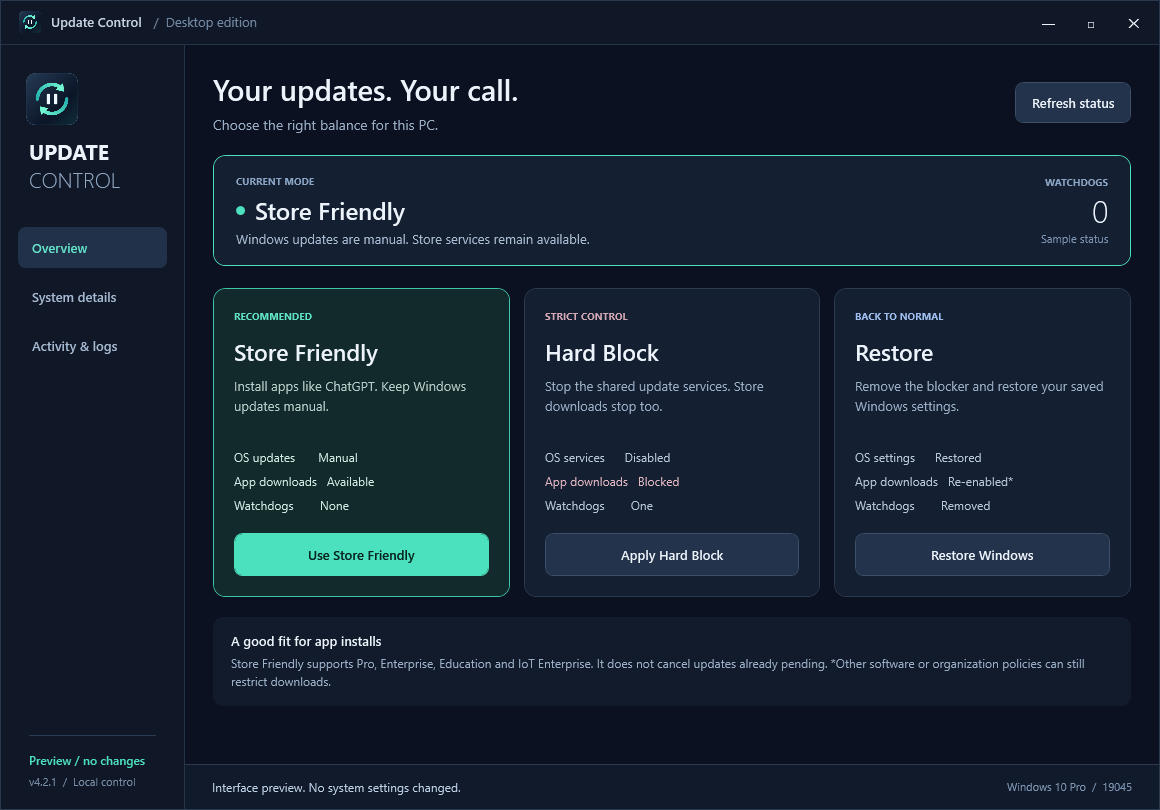
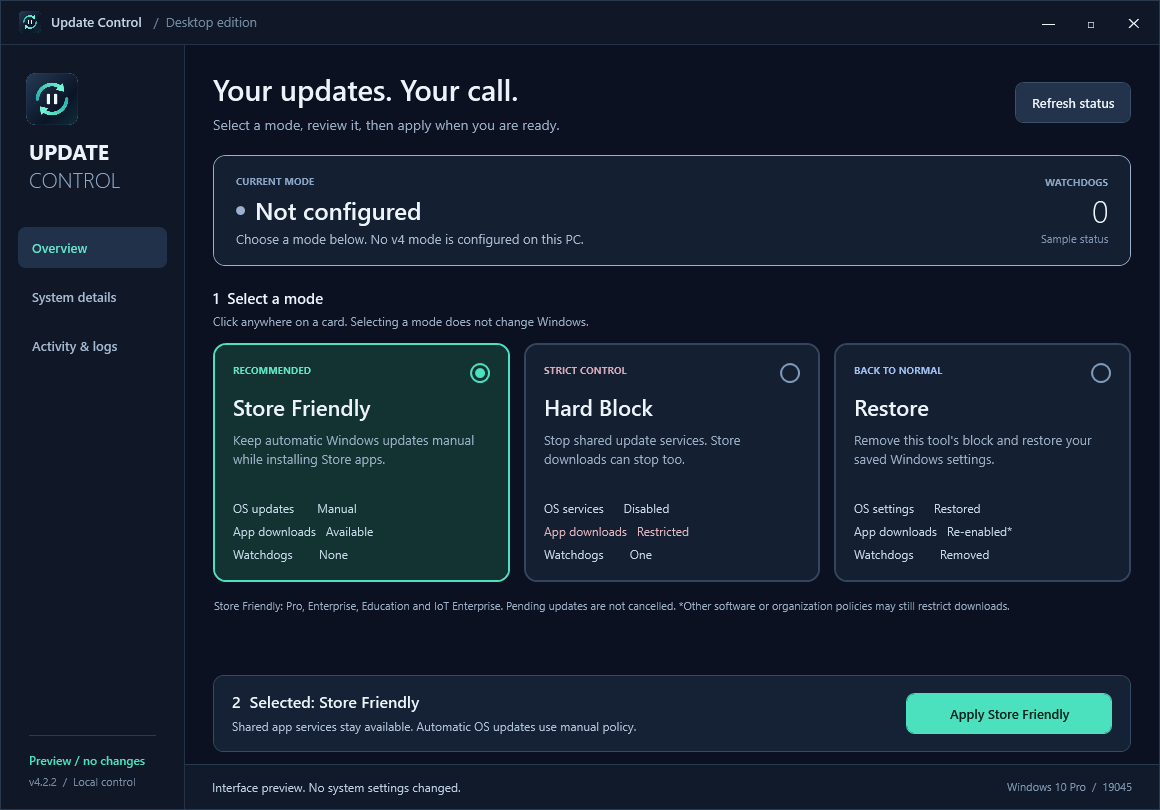
Make mode cards selectable with a separate visible Apply action (#3)

Changed region(s): [[0.1862, 0.3395, 0.9621, 0.9259], [0.2172, 0.2469, 0.4966, 0.3086], [0.1862, 0.1543, 0.4034, 0.1852]]

diff --git a/UpdateControl.xaml b/UpdateControl.xaml
@@ -31,6 +31,25 @@
       <Setter Property="BorderBrush" Value="Transparent"/><Setter Property="Margin" Value="0,3"/><Setter Property="Padding" Value="14,12"/>
     </Style>
     <Style x:Key="Card" TargetType="Border"><Setter Property="Background" Value="#141F31"/><Setter Property="BorderBrush" Value="#2B3B51"/><Setter Property="BorderThickness" Value="1"/><Setter Property="CornerRadius" Value="12"/><Setter Property="Padding" Value="21"/></Style>
+    <Style x:Key="ModeChoice" TargetType="RadioButton">
+      <Setter Property="Background" Value="#141F31"/><Setter Property="BorderBrush" Value="#34465F"/>
+      <Setter Property="Foreground" Value="#EDF3FA"/><Setter Property="Cursor" Value="Hand"/>
+      <Setter Property="HorizontalContentAlignment" Value="Stretch"/><Setter Property="VerticalContentAlignment" Value="Stretch"/>
+      <Setter Property="Template"><Setter.Value><ControlTemplate TargetType="RadioButton">
+        <Border x:Name="ChoiceSurface" Background="{TemplateBinding Background}" BorderBrush="{TemplateBinding BorderBrush}" BorderThickness="2" CornerRadius="12" Padding="18">
+          <Grid>
+            <ContentPresenter HorizontalAlignment="Stretch" VerticalAlignment="Stretch"/>
+            <Border x:Name="ChoiceRing" Width="20" Height="20" CornerRadius="10" BorderBrush="#7F99B8" BorderThickness="2" HorizontalAlignment="Right" VerticalAlignment="Top"><Ellipse x:Name="ChoiceDot" Width="10" Height="10" Fill="#4CE1BE" Visibility="Collapsed"/></Border>
+          </Grid>
+        </Border>
+        <ControlTemplate.Triggers>
+          <Trigger Property="IsMouseOver" Value="True"><Setter TargetName="ChoiceSurface" Property="Background" Value="#1C2B42"/><Setter TargetName="ChoiceSurface" Property="BorderBrush" Value="#92B8DD"/></Trigger>
+          <Trigger Property="IsChecked" Value="True"><Setter TargetName="ChoiceSurface" Property="Background" Value="#123331"/><Setter TargetName="ChoiceSurface" Property="BorderBrush" Value="#4CE1BE"/><Setter TargetName="ChoiceRing" Property="BorderBrush" Value="#4CE1BE"/><Setter TargetName="ChoiceDot" Property="Visibility" Value="Visible"/></Trigger>
+          <Trigger Property="IsKeyboardFocused" Value="True"><Setter TargetName="ChoiceSurface" Property="BorderBrush" Value="White"/></Trigger>
+          <Trigger Property="IsEnabled" Value="False"><Setter TargetName="ChoiceSurface" Property="Opacity" Value="0.45"/><Setter Property="Cursor" Value="Arrow"/></Trigger>
+        </ControlTemplate.Triggers>
+      </ControlTemplate></Setter.Value></Setter>
+    </Style>
     <Style x:Key="CaptionButton" TargetType="Button" BasedOn="{StaticResource Button}">
       <Setter Property="Background" Value="Transparent"/><Setter Property="BorderBrush" Value="Transparent"/><Setter Property="Width" Value="42"/><Setter Property="Padding" Value="0"/>
       <Setter Property="shell:WindowChrome.IsHitTestVisibleInChrome" Value="True"/>
@@ -50,6 +69,7 @@
   </Window.Resources>
   <Border x:Name="RenderRoot" BorderBrush="#2B394E" BorderThickness="1" Background="#0B1120">
     <Grid>
+      <Grid x:Name="AppContent">
       <Grid.RowDefinitions><RowDefinition Height="44"/><RowDefinition Height="*"/></Grid.RowDefinitions>
       <Border Grid.Row="0" Background="#101827" BorderBrush="#253349" BorderThickness="0,0,0,1">
         <Grid Margin="18,0,5,0"><StackPanel Orientation="Horizontal" VerticalAlignment="Center"><Image x:Name="TitleIcon" Width="22" Height="22" Margin="0,0,10,0"/><TextBlock Text="Update Control" Foreground="#C5D4E5" FontWeight="SemiBold" VerticalAlignment="Center"/><TextBlock Text=" /  Desktop edition" Foreground="#748BA6" Margin="8,0,0,0" VerticalAlignment="Center"/></StackPanel>
@@ -69,11 +89,11 @@
             <StackPanel DockPanel.Dock="Bottom">
               <Border Height="1" Background="#293A51" Margin="12,0,12,16"/>
               <TextBlock x:Name="AccessText" Text="Checking access" Foreground="#4CE1BE" FontWeight="SemiBold" FontSize="12" Margin="12,0,0,6"/>
-              <TextBlock Text="v4.2.1  /  Local control" Foreground="#788FA9" FontSize="11" Margin="12,0,0,0"/>
+              <TextBlock Text="v4.2.2  /  Local control" Foreground="#788FA9" FontSize="11" Margin="12,0,0,0"/>
             </StackPanel>
           </DockPanel>
         </Border>
-        <Grid Grid.Column="1"><Grid.RowDefinitions><RowDefinition Height="*"/><RowDefinition Height="Auto"/></Grid.RowDefinitions>
+        <Grid Grid.Column="1"><Grid.RowDefinitions><RowDefinition Height="*"/><RowDefinition Height="Auto"/><RowDefinition Height="Auto"/></Grid.RowDefinitions>
           <ScrollViewer x:Name="MainScroll" Padding="28,25,28,20">
             <StackPanel>
               <Grid Margin="0,0,0,21"><Grid.ColumnDefinitions><ColumnDefinition Width="*"/><ColumnDefinition Width="Auto"/></Grid.ColumnDefinitions>
@@ -88,36 +108,35 @@
               </Border>
               <Border x:Name="NoticePanel" CornerRadius="8" Background="#33291A" BorderBrush="#8D6931" BorderThickness="1" Padding="15,12" Margin="0,0,0,18" Visibility="Collapsed"><TextBlock x:Name="NoticeText" Foreground="#F3D89F"/></Border>
               <StackPanel x:Name="OverviewPage">
-                <Grid Margin="0,0,0,20"><Grid.ColumnDefinitions><ColumnDefinition Width="*"/><ColumnDefinition Width="14"/><ColumnDefinition Width="*"/><ColumnDefinition Width="14"/><ColumnDefinition Width="*"/></Grid.ColumnDefinitions>
-                  <Border Grid.Column="0" Style="{StaticResource Card}" BorderBrush="#3DC6A8" Background="#122A2B" Padding="20">
-                    <Grid><Grid.RowDefinitions><RowDefinition Height="Auto"/><RowDefinition Height="Auto"/><RowDefinition Height="Auto"/><RowDefinition Height="*"/><RowDefinition Height="Auto"/></Grid.RowDefinitions>
-                      <TextBlock Text="RECOMMENDED" Foreground="#62E5C6" FontSize="10" FontWeight="Bold"/>
-                      <TextBlock Grid.Row="1" Text="Store Friendly" FontSize="23" FontWeight="SemiBold" Margin="0,14,0,10"/>
-                      <TextBlock Grid.Row="2" Text="Install apps like ChatGPT. Keep Windows updates manual." Foreground="#B6CECA" MinHeight="57" LineHeight="20"/>
-                      <StackPanel Grid.Row="3" Margin="0,15,0,20"><TextBlock Text="OS updates       Manual" Foreground="#CFEAE3" FontSize="12" Margin="0,0,0,8"/><TextBlock Text="App downloads   Available" Foreground="#CFEAE3" FontSize="12" Margin="0,0,0,8"/><TextBlock Text="Watchdogs        None" Foreground="#CFEAE3" FontSize="12"/></StackPanel>
-                      <Button x:Name="StoreButton" Grid.Row="4" Content="Use Store Friendly" Style="{StaticResource Button}" Background="#4CE1BE" Foreground="#08251F" BorderBrush="#4CE1BE" Padding="10,12"/>
-                    </Grid>
-                  </Border>
-                  <Border Grid.Column="2" Style="{StaticResource Card}" Padding="20">
-                    <Grid><Grid.RowDefinitions><RowDefinition Height="Auto"/><RowDefinition Height="Auto"/><RowDefinition Height="Auto"/><RowDefinition Height="*"/><RowDefinition Height="Auto"/></Grid.RowDefinitions>
-                      <TextBlock Text="STRICT CONTROL" Foreground="#D6AAB7" FontSize="10" FontWeight="Bold"/>
-                      <TextBlock Grid.Row="1" Text="Hard Block" FontSize="23" FontWeight="SemiBold" Margin="0,14,0,10"/>
-                      <TextBlock Grid.Row="2" Text="Stop the shared update services. Store downloads stop too." Foreground="{StaticResource Muted}" MinHeight="57" LineHeight="20"/>
-                      <StackPanel Grid.Row="3" Margin="0,15,0,20"><TextBlock Text="OS services      Disabled" Foreground="#B8C8DB" FontSize="12" Margin="0,0,0,8"/><TextBlock Text="App downloads   Blocked" Foreground="#E0B6C0" FontSize="12" Margin="0,0,0,8"/><TextBlock Text="Watchdogs        One" Foreground="#B8C8DB" FontSize="12"/></StackPanel>
-                      <Button x:Name="HardButton" Grid.Row="4" Content="Apply Hard Block" Style="{StaticResource Button}" Padding="10,12"/>
-                    </Grid>
-                  </Border>
-                  <Border Grid.Column="4" Style="{StaticResource Card}" Padding="20">
-                    <Grid><Grid.RowDefinitions><RowDefinition Height="Auto"/><RowDefinition Height="Auto"/><RowDefinition Height="Auto"/><RowDefinition Height="*"/><RowDefinition Height="Auto"/></Grid.RowDefinitions>
-                      <TextBlock Text="BACK TO NORMAL" Foreground="#9EBFF0" FontSize="10" FontWeight="Bold"/>
-                      <TextBlock Grid.Row="1" Text="Restore" FontSize="23" FontWeight="SemiBold" Margin="0,14,0,10"/>
-                      <TextBlock Grid.Row="2" Text="Remove the blocker and restore your saved Windows settings." Foreground="{StaticResource Muted}" MinHeight="57" LineHeight="20"/>
-                      <StackPanel Grid.Row="3" Margin="0,15,0,20"><TextBlock Text="OS settings      Restored" Foreground="#B8C8DB" FontSize="12" Margin="0,0,0,8"/><TextBlock Text="App downloads   Re-enabled*" Foreground="#B8C8DB" FontSize="12" Margin="0,0,0,8"/><TextBlock Text="Watchdogs        Removed" Foreground="#B8C8DB" FontSize="12"/></StackPanel>
-                      <Button x:Name="RestoreButton" Grid.Row="4" Content="Restore Windows" Style="{StaticResource Button}" Padding="10,12"/>
-                    </Grid>
-                  </Border>
+                <TextBlock Text="1  Select a mode" FontSize="15" FontWeight="SemiBold" Margin="0,0,0,5"/>
+                <TextBlock Text="Click anywhere on a card. Selecting a mode does not change Windows." Foreground="{StaticResource Muted}" FontSize="12" Margin="0,0,0,14"/>
+                <Grid Margin="0,0,0,16" KeyboardNavigation.DirectionalNavigation="Contained"><Grid.ColumnDefinitions><ColumnDefinition Width="*"/><ColumnDefinition Width="14"/><ColumnDefinition Width="*"/><ColumnDefinition Width="14"/><ColumnDefinition Width="*"/></Grid.ColumnDefinitions>
+                  <RadioButton x:Name="StoreChoice" Tag="Store" GroupName="UpdateMode" Grid.Column="0" Style="{StaticResource ModeChoice}" AutomationProperties.Name="Store Friendly" AutomationProperties.HelpText="Select this mode. Use Apply Store Friendly to change Windows." ToolTip="Select Store Friendly; Windows stays unchanged until you apply.">
+                    <StackPanel>
+                      <TextBlock Text="RECOMMENDED" Foreground="#62E5C6" FontSize="10" FontWeight="Bold" Margin="0,0,30,0"/>
+                      <TextBlock Text="Store Friendly" FontSize="22" FontWeight="SemiBold" Margin="0,16,0,10"/>
+                      <TextBlock Text="Keep automatic Windows updates manual while installing Store apps." Foreground="{StaticResource Muted}" MinHeight="55" LineHeight="19"/>
+                      <StackPanel Margin="0,14,0,0"><TextBlock Text="OS updates       Manual" Foreground="#C6D8E8" FontSize="12" Margin="0,0,0,7"/><TextBlock Text="App downloads   Available" Foreground="#C6D8E8" FontSize="12" Margin="0,0,0,7"/><TextBlock Text="Watchdogs        None" Foreground="#C6D8E8" FontSize="12"/></StackPanel>
+                    </StackPanel>
+                  </RadioButton>
+                  <RadioButton x:Name="HardChoice" Tag="Hard" GroupName="UpdateMode" Grid.Column="2" Style="{StaticResource ModeChoice}" AutomationProperties.Name="Hard Block" AutomationProperties.HelpText="Select this mode. Review and confirm Hard Block separately." ToolTip="Select Hard Block to review it. Nothing changes until you apply and confirm.">
+                    <StackPanel>
+                      <TextBlock Text="STRICT CONTROL" Foreground="#D6AAB7" FontSize="10" FontWeight="Bold" Margin="0,0,30,0"/>
+                      <TextBlock Text="Hard Block" FontSize="22" FontWeight="SemiBold" Margin="0,16,0,10"/>
+                      <TextBlock Text="Stop shared update services. Store downloads can stop too." Foreground="{StaticResource Muted}" MinHeight="55" LineHeight="19"/>
+                      <StackPanel Margin="0,14,0,0"><TextBlock Text="OS services      Disabled" Foreground="#C6D8E8" FontSize="12" Margin="0,0,0,7"/><TextBlock Text="App downloads   Restricted" Foreground="#E0B6C0" FontSize="12" Margin="0,0,0,7"/><TextBlock Text="Watchdogs        One" Foreground="#C6D8E8" FontSize="12"/></StackPanel>
+                    </StackPanel>
+                  </RadioButton>
+                  <RadioButton x:Name="RestoreChoice" Tag="Restore" GroupName="UpdateMode" Grid.Column="4" Style="{StaticResource ModeChoice}" AutomationProperties.Name="Restore Windows" AutomationProperties.HelpText="Select restoration. Use Restore Windows to remove this tool's settings." ToolTip="Select Restore; your current settings stay in place until you apply.">
+                    <StackPanel>
+                      <TextBlock Text="BACK TO NORMAL" Foreground="#9EBFF0" FontSize="10" FontWeight="Bold" Margin="0,0,30,0"/>
+                      <TextBlock Text="Restore" FontSize="22" FontWeight="SemiBold" Margin="0,16,0,10"/>
+                      <TextBlock Text="Remove this tool's block and restore your saved Windows settings." Foreground="{StaticResource Muted}" MinHeight="55" LineHeight="19"/>
+                      <StackPanel Margin="0,14,0,0"><TextBlock Text="OS settings      Restored" Foreground="#C6D8E8" FontSize="12" Margin="0,0,0,7"/><TextBlock Text="App downloads   Re-enabled*" Foreground="#C6D8E8" FontSize="12" Margin="0,0,0,7"/><TextBlock Text="Watchdogs        Removed" Foreground="#C6D8E8" FontSize="12"/></StackPanel>
+                    </StackPanel>
+                  </RadioButton>
                 </Grid>
-                <Border Background="#121B2B" CornerRadius="10" Padding="18,15"><StackPanel><TextBlock Text="A good fit for app installs" FontWeight="SemiBold"/><TextBlock Text="Store Friendly supports Pro, Enterprise, Education and IoT Enterprise. It does not cancel updates already pending. *Other software or organization policies can still restrict downloads." Foreground="{StaticResource Muted}" Margin="0,6,0,0" FontSize="12" LineHeight="18"/></StackPanel></Border>
+                <TextBlock Text="Store Friendly: Pro, Enterprise, Education and IoT Enterprise. Pending updates are not cancelled. *Other software or organization policies may still restrict downloads." Foreground="{StaticResource Muted}" FontSize="11" LineHeight="17" Margin="1,0,1,0"/>
               </StackPanel>
               <StackPanel x:Name="DetailsPage" Visibility="Collapsed">
                 <Border Style="{StaticResource Card}" Margin="0,0,0,16"><StackPanel><TextBlock Text="Update &amp; app services" FontSize="18" FontWeight="SemiBold" Margin="0,0,0,6"/><TextBlock Text="A stopped Manual service can start when Windows needs it. Disabled means it cannot start." Foreground="{StaticResource Muted}" Margin="0,0,0,18" FontSize="12"/><DataGrid x:Name="ServicesGrid"><DataGrid.Columns><DataGridTextColumn Header="Service" Binding="{Binding Name}" Width="*" MinWidth="230"/><DataGridTextColumn Header="State" Binding="{Binding State}" Width="140"/><DataGridTextColumn Header="Startup" Binding="{Binding Startup}" Width="140"/></DataGrid.Columns></DataGrid></StackPanel></Border>
@@ -129,12 +148,19 @@
               <Border x:Name="ResultPanel" Style="{StaticResource Card}" Margin="0,18,0,0" Visibility="Collapsed"><StackPanel><TextBlock x:Name="ResultTitle" Text="" FontSize="18" FontWeight="SemiBold"/><TextBlock x:Name="ResultMessage" Text="" Foreground="#B4C7DD" Margin="0,7,0,0" LineHeight="20"/></StackPanel></Border>
             </StackPanel>
           </ScrollViewer>
-          <Border Grid.Row="1" Background="#101A2B" BorderBrush="#293A50" BorderThickness="0,1,0,0" Padding="27,14">
+                <Border x:Name="SelectionPanel" Grid.Row="1" Background="#152235" BorderBrush="#354C68" BorderThickness="1" CornerRadius="10" Padding="18,15" Margin="28,0,28,12">
+                  <Grid><Grid.ColumnDefinitions><ColumnDefinition Width="*"/><ColumnDefinition Width="Auto"/></Grid.ColumnDefinitions>
+                    <StackPanel><TextBlock x:Name="SelectionTitle" Text="2  Apply your selection" FontSize="16" FontWeight="SemiBold"/><TextBlock x:Name="SelectionHint" Text="Select a card above to continue." Foreground="#AEC2DA" FontSize="12" Margin="0,6,14,0" LineHeight="18"/></StackPanel>
+                    <Button x:Name="ApplyButton" Grid.Column="1" Content="Select a mode" Style="{StaticResource Button}" Background="#4CE1BE" Foreground="#08251F" BorderBrush="#4CE1BE" MinWidth="206" VerticalAlignment="Center" ToolTipService.ShowOnDisabled="True"/>
+                  </Grid>
+                </Border>
+          <Border Grid.Row="2" Background="#101A2B" BorderBrush="#293A50" BorderThickness="0,1,0,0" Padding="27,14">
             <StackPanel><Grid><Grid.ColumnDefinitions><ColumnDefinition Width="*"/><ColumnDefinition Width="Auto"/></Grid.ColumnDefinitions><TextBlock x:Name="OperationText" Text="Connecting to the local controller..." Foreground="#BED0E6" FontSize="12"/><TextBlock x:Name="SystemText" Grid.Column="1" Foreground="#7F98B5" FontSize="11" Margin="15,0,0,0"/></Grid><ProgressBar x:Name="ProgressBar" Height="3" Margin="0,10,0,0" Background="#263750" Foreground="#4CE1BE" BorderThickness="0" IsIndeterminate="True"/></StackPanel>
           </Border>
         </Grid>
       </Grid>
-      <Border x:Name="ConfirmOverlay" Grid.RowSpan="2" Background="#CC060B14" Visibility="Collapsed">
+      </Grid>
+      <Border x:Name="ConfirmOverlay" KeyboardNavigation.TabNavigation="Cycle" Background="#CC060B14" Visibility="Collapsed">
         <Border Style="{StaticResource Card}" Width="440" HorizontalAlignment="Center" VerticalAlignment="Center" Padding="30" BorderBrush="#8B5C6D"><StackPanel><TextBlock Text="Apply Hard Block?" FontSize="26" FontWeight="SemiBold"/><TextBlock Text="This stops Windows update services and prevents Microsoft Store downloads, including ChatGPT. Automatic OS security updates also stop." Margin="0,16,0,0" Foreground="#C3CDDC" LineHeight="22"/><TextBlock Text="You can switch back with Store Friendly or Restore." Margin="0,12,0,24" Foreground="#9BB2CA"/><Grid><Grid.ColumnDefinitions><ColumnDefinition Width="*"/><ColumnDefinition Width="12"/><ColumnDefinition Width="*"/></Grid.ColumnDefinitions><Button x:Name="CancelHardButton" Content="Keep current mode" Style="{StaticResource Button}" Padding="10,12"/><Button x:Name="ConfirmHardButton" Grid.Column="2" Content="Apply Hard Block" Style="{StaticResource Button}" Background="#944B63" BorderBrush="#BC708A" Padding="10,12"/></Grid></StackPanel></Border>
       </Border>
     </Grid>

diff --git a/launcher/Program.cs b/launcher/Program.cs
@@ -15,8 +15,8 @@ using System.Windows.Forms;
 [assembly: AssemblyCompany("Ajay Kareer")]
 [assembly: AssemblyProduct("Update Control Desktop")]
 [assembly: AssemblyCopyright("Copyright (c) Ajay Kareer. MIT licensed.")]
-[assembly: AssemblyVersion("4.2.1.0")]
-[assembly: AssemblyFileVersion("4.2.1.0")]
+[assembly: AssemblyVersion("4.2.2.0")]
+[assembly: AssemblyFileVersion("4.2.2.0")]
 
 internal static class Program
 {

diff --git a/README.md b/README.md
@@ -6,9 +6,9 @@
 
 A Windows desktop interface for controlling automatic OS updates, keeping Microsoft Store available, and removing this tool's blocker reliably.
 
-**[Download the single EXE](https://github.com/ajaykareer/Windows-Update-Manager/releases/download/v4.2.1/Update-Control.exe)** · **[Portable ZIP](https://github.com/ajaykareer/Windows-Update-Manager/releases/download/v4.2.1/Update-Control-Desktop-v4.2.1.zip)** · [Release notes](https://github.com/ajaykareer/Windows-Update-Manager/releases/tag/v4.2.1)
+**[Download the single EXE](https://github.com/ajaykareer/Windows-Update-Manager/releases/download/v4.2.2/Update-Control.exe)** · **[Portable ZIP](https://github.com/ajaykareer/Windows-Update-Manager/releases/download/v4.2.2/Update-Control-Desktop-v4.2.2.zip)** · [Release notes](https://github.com/ajaykareer/Windows-Update-Manager/releases/tag/v4.2.2)
 
-Version 4.2.1 is a preview release. See [validation and limitations](docs/VALIDATION.md) for what is tested.
+Version 4.2.2 is a preview release. See [validation and limitations](docs/VALIDATION.md) for what is tested.
 
 ![Update Control desktop overview](docs/screenshots/overview.png)
 
@@ -17,9 +17,11 @@ Version 4.2.1 is a preview release. See [validation and limitations](docs/VALIDA
 ## Start here
 
 1. Download **Update-Control.exe** and open it on the PC you want to manage. Accept the administrator prompt.
-2. If you used the old script, select **Restore Windows** first. Follow any restart message.
-3. Select **Use Store Friendly** to keep automatic Windows updates disabled by policy while allowing Store downloads, including apps such as ChatGPT.
-4. Select **Restore Windows** whenever you want to remove this tool's block.
+2. If you used the old script, click the **Restore** card, then **Restore Windows**. Follow any restart message.
+3. Click the **Store Friendly** card, then **Apply Store Friendly** to keep automatic Windows updates disabled by policy while allowing Store downloads, including apps such as ChatGPT.
+4. To remove the block later, select the **Restore** card and apply it.
+
+The entire card is clickable. Its outline and radio marker show your selection; Windows changes only after you press the separate action button. Hard Block adds a confirmation step. The **Current mode** panel shows the saved configuration, independently of the option you are considering.
 
 You download one EXE. It automatically extracts its embedded components into a protected version folder under `%ProgramFiles%\Kareer Update Control`. It uses Windows PowerShell 5.1 and .NET Framework already present on standard Windows 10/11 desktop installations. It does not require Python, Node, or a separate setup wizard.
 
@@ -55,7 +57,9 @@ Exact original-setting restoration applies to changes first made by version 4. T
 
 ## Interface
 
-Overview shows the selected mode, watchdog count and available actions. System details shows service and task status. Activity provides progress, logs, backups, and diagnostic reports. Hard Block has a confirmation dialog; failure and restart results are distinct. No restart or Windows Update scan is issued automatically.
+Overview separates the current mode from your pending selection. Click any part of a mode card, then use the action bar that stays visible at the bottom. Radio controls support keyboard and accessibility navigation. Read-only access, a running operation, missing status and an unsupported Store edition explain why Apply is unavailable. Selections survive automatic status refreshes.
+
+System details shows service and task status. Activity provides progress, logs, backups, and diagnostic reports. Hard Block has a confirmation dialog that prevents interaction with the underlying page until you confirm or cancel. Failure and restart results are distinct. No restart or Windows Update scan is issued automatically.
 
 | System details | Activity and recovery |
 | --- | --- |

diff --git a/docs/TROUBLESHOOTING.md b/docs/TROUBLESHOOTING.md
@@ -2,7 +2,7 @@
 
 ## Store says “Turn on Windows Update”
 
-Open Update Control, choose **Restore Windows**, and follow any restart message. Reopen the controller and choose **Use Store Friendly** on a supported edition. This keeps shared services available while setting automatic Windows updates to manual policy. Close and reopen Microsoft Store. If it retains an old error, run `wsreset.exe` from Win+R.
+Open Update Control, select the **Restore** card, click **Restore Windows**, and follow any restart message. Reopen the controller, select **Store Friendly**, then click **Apply Store Friendly** on a supported edition. This keeps shared services available while setting automatic Windows updates to manual policy. Close and reopen Microsoft Store. If it retains an old error, run `wsreset.exe` from Win+R.
 
 Do not keep Hard Block enabled while expecting Store downloads to work. Other causes, such as account, network, organization policy or Store damage, are outside this controller's repair scope.
 
@@ -11,6 +11,14 @@ Do not keep Hard Block enabled while expecting Store downloads to work. Other ca
 The new controller looks in every Task Scheduler folder for both `WU-Guardian*` and `POS-WU-Guardian*` families, but matches only the explicit names listed in the README. It disarms enforcement, then separately tries disable, stop and deletion. If deletion still fails, it reports **Needs attention** and includes a log path.
 
 Use **Activity → Open logs** and create a diagnostic report. Confirm you opened the controller with administrator access. Rerun Restore after resolving the reported error. Do not delete the data folder while a guardian is still active. Tasks with custom names are not automatically deleted.
+
+## Mode cards or Apply seem unresponsive
+
+In 4.2.2, click anywhere on a card to select it. The outline and radio marker change, and the bottom action button names the selected action. Selecting alone does not change the **Current mode** panel; only applying and successfully completing a change does that.
+
+Read the message beside Apply if it is disabled: no selection, read-only access, an operation in progress, unavailable status, or an unsupported Windows edition. During a status refresh you can still choose a card; applying waits for the refresh. During a settings change, the choices and action are disabled together. The button stays visible while the content scrolls.
+
+The older 4.2.1 layout used static cards with separate small buttons. Close that version and open the current EXE if you still see those individual card buttons. If an enabled action still does nothing, report its exact label and the Activity text.
 
 ## Restart required
 
@@ -34,7 +42,7 @@ For a WPF startup failure, check `%TEMP%\Update-Control-GUI-error.txt` and try t
 
 ## Remove the application
 
-1. Open it and select **Restore Windows**. Wait for success and follow any restart message.
+1. Open it, select the **Restore** card and click **Restore Windows**. Wait for success and follow any restart message.
 2. Verify that the watchdog count is zero.
 3. Close the application. You can then delete the downloaded EXE/ZIP and the application component folder under `%ProgramFiles%\Kareer Update Control`.
 4. Keep the ProgramData logs/backups until you have verified normal operation. Deleting the EXE alone does not disable an installed Hard Block watchdog.

diff --git a/docs/VALIDATION.md b/docs/VALIDATION.md
@@ -1,6 +1,6 @@
 # Validation and limits
 
-Version 4.2.1 is a preview. A successful build is not a guarantee that Windows servicing, every protected service, or Microsoft Store behaves identically on every machine.
+Version 4.2.2 is a preview. A successful build is not a guarantee that Windows servicing, every protected service, or Microsoft Store behaves identically on every machine.
 
 See [Windows validation runs](https://github.com/ajaykareer/Windows-Update-Manager/actions/workflows/windows.yml) for the result on each commit. The release packages should come from a successful run for the release commit.
 
@@ -9,7 +9,7 @@ See [Windows validation runs](https://github.com/ajaykareer/Windows-Update-Manag
 | Controller regression suite | Hard → Store → Restore, repeated restore, absent/original policy, immutable baseline, failure rollback, corrupt state, real file locks and atomic replacement | Actual Windows Update service permissions or OS policy enforcement |
 | Watchdog removal regression | Both legacy naming families; all task folders; independent disable/stop/delete attempts; CLI fallback; remaining tasks fail explicitly | Every third-party task or renamed/custom blocker |
 | Repair regression suite | Exact known policy/ACL cleanup, unrelated policy preservation, service fallback errors, backup and teardown ordering | Exact pre-script permissions that old releases never recorded |
-| WPF smoke test | Actual status worker, completion code/result delivery, mode routing, confirmation/cancel, navigation, read-only controls, error/restart presentation | A real privileged button click on a consumer PC |
+| WPF smoke test | Actual status worker, card heading/body/padding hit targets, unobstructed Apply target at standard/minimum sizes, accessibility selection/invocation, no changes on selection/cancel, action routing, modal isolation, disabled-state reasons and selection persistence | Physical pointer/keyboard input or a real privileged button click on the affected PC |
 | Interface previews | Real WPF rendering with sample status, including smaller window layouts | A screenshot of successful live blocking |
 | Windows API integration | Actual temporary services, protected state/engine ACLs, scheduled SYSTEM task, drift correction, startup-setting restoration and task deletion | Client Windows Update, Medic behavior, reboot persistence, MDM or Store app installation |
 | EXE/ZIP verification | Embedded SHA-256, exact source-to-package comparison, real elevated extraction and cached second launch in CI | Publisher signing, SmartScreen reputation or antivirus acceptance |

diff --git a/docs/BUILD.md b/docs/BUILD.md
@@ -12,7 +12,7 @@ powershell.exe -NoProfile -ExecutionPolicy Bypass -File .\tests\Test-Package.ps1
 The build creates these ignored outputs in `dist`:
 
 - `Update-Control.exe`: native C# launcher with embedded ZIP, SHA-256 integrity check, administrator manifest, and application icon.
-- `Update-Control-Desktop-v4.2.1.zip`: the same application components for manual extraction.
+- `Update-Control-Desktop-v4.2.2.zip`: the same application components for manual extraction.
 - `SHA256SUMS.txt`: checksums for both downloads.
 - `Update-Control.ico` and `Update-Control.png`: reusable application icon assets (also covered by the checksums).
 
@@ -39,9 +39,11 @@ These checks use mocked mutations, temporary files, real task-definition builder
 ## Regenerate screenshots
 
 ```powershell
-powershell.exe -NoProfile -STA -ExecutionPolicy Bypass -File .\UpdateControl.GUI.ps1 -PreviewPath .\docs\screenshots\overview.png -PreviewMode Store
+powershell.exe -NoProfile -STA -ExecutionPolicy Bypass -File .\UpdateControl.GUI.ps1 -PreviewPath .\docs\screenshots\overview.png -PreviewMode Unmanaged -PreviewSelection Store
 powershell.exe -NoProfile -STA -ExecutionPolicy Bypass -File .\UpdateControl.GUI.ps1 -PreviewPath .\docs\screenshots\system-details.png -PreviewMode Hard -PreviewPage Details
 powershell.exe -NoProfile -STA -ExecutionPolicy Bypass -File .\UpdateControl.GUI.ps1 -PreviewPath .\docs\screenshots\activity.png -PreviewMode RecoveryRequired -PreviewPage Activity
 ```
 
 Preview renders the actual WPF layout offscreen with labeled sample data. It does not change Windows settings.
+
+Use `-PreviewSelection Hard` to show a pending Hard Block choice independently of the current mode. `-PreviewWidth 940 -PreviewHeight 620` checks the minimum window layout with the action bar still visible.

diff --git a/CHANGELOG.md b/CHANGELOG.md
@@ -1,5 +1,14 @@
 # Changelog
 
+## 4.2.2 — Clear mode selection and Apply
+
+- Replaces static mode cards with full-card radio controls: heading, description and padding all select the option.
+- Separates the pending selection from the current Windows mode. Selection and cancellation never execute a controller action.
+- Adds one action bar that stays visible in small windows, with a clear selected-mode label and explicit reasons when Apply is unavailable.
+- Keeps selection during automatic status refreshes and supports reviewing choices with read-only access.
+- Isolates the Hard Block confirmation from the underlying page and ignores duplicate confirmation events after it closes.
+- Adds hit-target and accessibility-provider interaction tests plus updated screenshots and usage instructions. The controller's update/restore behavior is unchanged.
+
 ## 4.2.1 — Icon and publisher-signing preparation
 
 - Adds an original update/pause icon with seven Windows icon sizes and a reusable 1024 pixel PNG; applies it to the EXE, window/taskbar icon, title bar and sidebar.

diff --git a/docs/SIGNING.md b/docs/SIGNING.md
@@ -1,6 +1,6 @@
 # Publisher identity, Windows warnings and false positives
 
-The public 4.2.1 preview is **unsigned**. The author/company fields and custom icon are application metadata, not a verified publisher signature. No certificate is bundled and the build does not install a trust root, add an antivirus exclusion, or switch off security checks.
+The public 4.2.2 preview is **unsigned**. The author/company fields and custom icon are application metadata, not a verified publisher signature. No certificate is bundled and the build does not install a trust root, add an antivirus exclusion, or switch off security checks.
 
 Three different prompts can appear:
 
